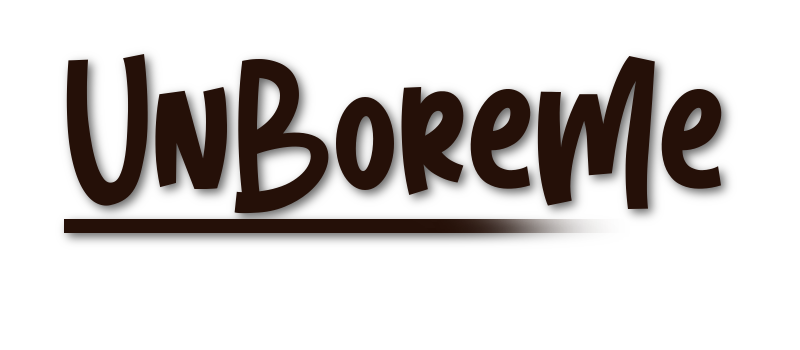
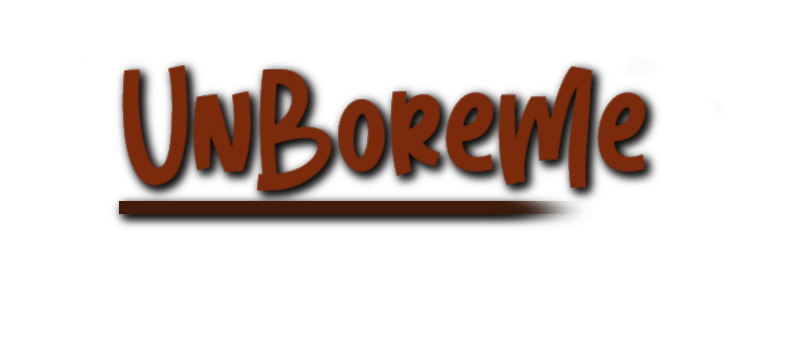
HTML styling work. Mild JS  adjustments to clear input field for Search term and category. Changed class for map button to properly fit with CSS styling

diff --git a/assets/style.css b/assets/style.css
@@ -2,19 +2,34 @@
     box-sizing: border-box;
 }
 
+body { 
+    background: url(images/black-linen.png) 
+}
+
  /* DISABLE THIS LATER */
 #map {
     height: 400px;
     width: 100%;
 } 
 
+.col-md-12 {
+    color: white;
+}
 
 
-#headerPic{
-    max-width: 400px;
+
+#headerPic {
+    max-width: 500px;
     display: block;
     margin-left: auto;
     margin-right: auto;
+    margin-top: -65px;
+    margin-bottom: -130px;
+}
+
+.jumbotron {
+    background: rgb(39, 38, 38);
+    border-radius: 0px;
 }
 
 .container {
@@ -25,7 +40,7 @@
 }
 
 .cards {
-    border: solid black 3px;
+    border: solid rgb(71, 71, 71) 3px;
     /* position: relative; */
     width: 100%;
     max-width: 800px;
@@ -50,14 +65,17 @@
     float: left;
     max-height: 150px;
     max-width: 150px;
+    border-top-left-radius: 6px;
 }
 
 .map {
     border-radius: 4px;
     padding: 2px;
     margin-bottom: 5px;
+
 }
 
 .eventTitle {
     padding-top: 25px;
 }
+

diff --git a/index.html b/index.html
@@ -64,8 +64,8 @@
             <h2 class="eventTitle">Super Awesome Music Fest!</h2>
             <p class="location">14831 e Narnia Land Phoenix, AZ 85331
                 <button class="map">Map</button></p>
-        </div>
-        <div class="cards">
+        </div> -->
+        <!-- <div class="cards">
             <img src="https://via.placeholder.com/150" class="eventPic">
             <h2 class="eventTitle">Super Awesome Music Fest!</h2>
             <p class="location">14831 e Narnia Land Phoenix, AZ 85331
@@ -75,7 +75,7 @@
             <img src="https://via.placeholder.com/150" class="eventPic">
             <h2 class="eventTitle">Super Awesome Music Fest!</h2>
             <p class="location">14831 e Narnia Land Phoenix, AZ 85331
-                <button class="map">Map</button></p>
+                <button class="map">Map</button></p> -->
         </div> -->
     </div>
 

diff --git a/assets/app.js b/assets/app.js
@@ -99,6 +99,7 @@ $(document).ready(function () {
     // Event handler for user clicking the submit button
     $("#submitSearch").click(function (event) {
         event.preventDefault()
+        $("#resultCard").empty();
         // Storing the search queries
        var submitData =  {
              searchTerm : $("#searchTerm").val().trim(),
@@ -108,8 +109,12 @@ $(document).ready(function () {
              radius : $("#radius").val().trim(),
           //   where : state + city
         }
+        
         // Running the searchEvents function(passing search queries as arguments)
         searchEvents(submitData);
+
+        $("#searchTerm").val("");
+        $("#category").val("");
        
     })
 
